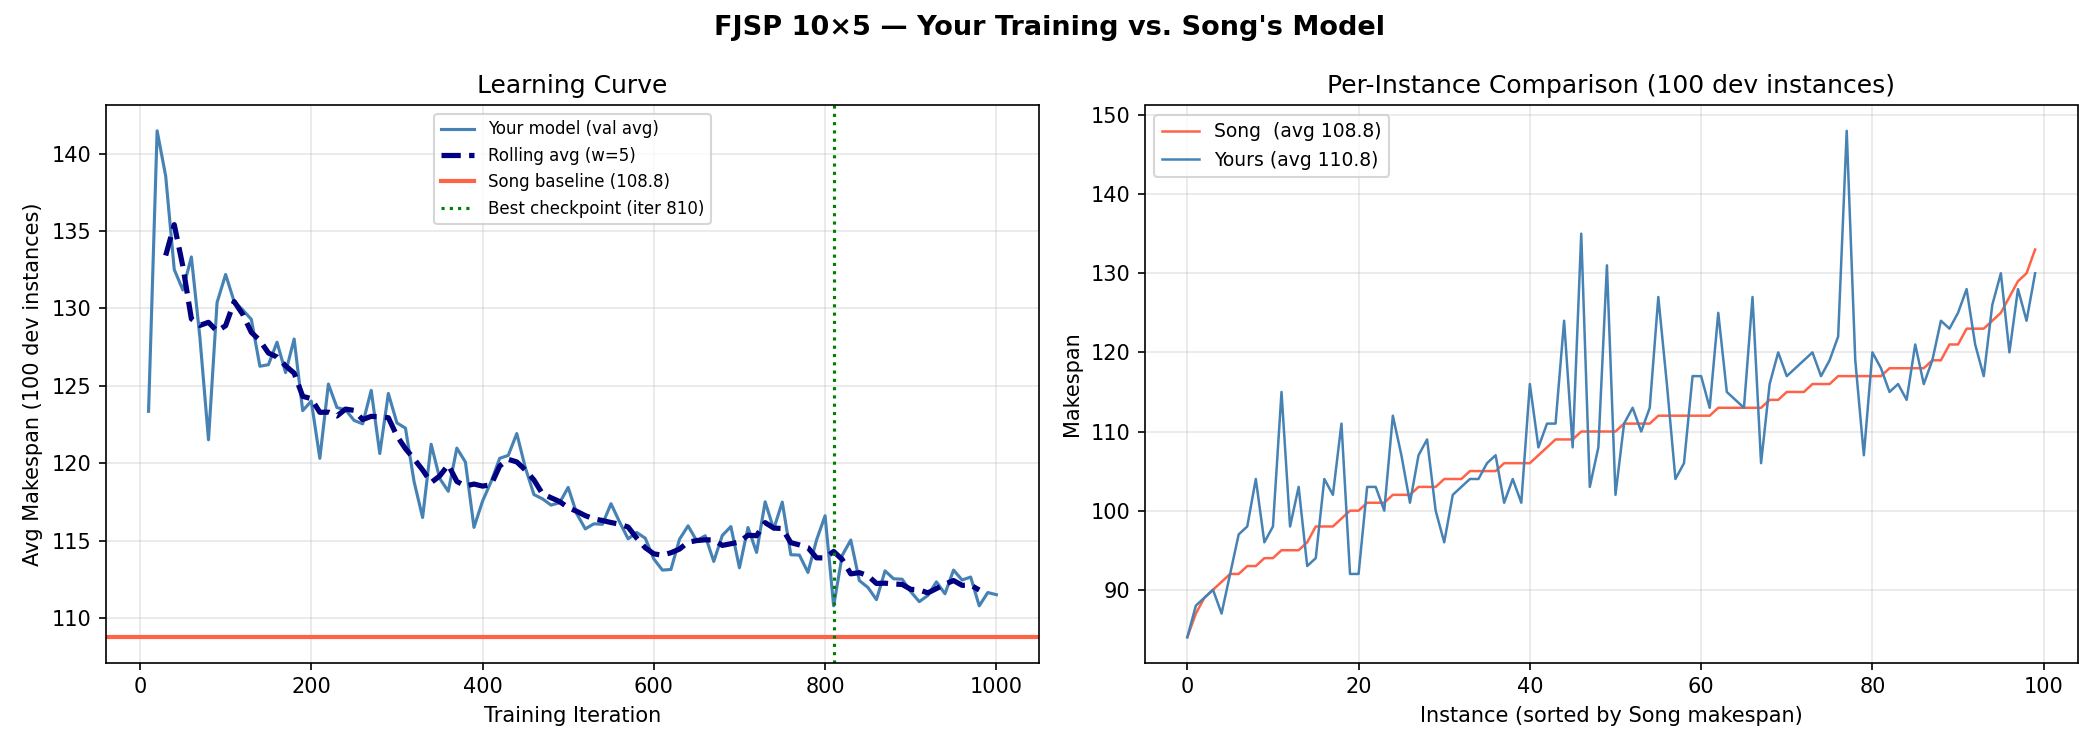
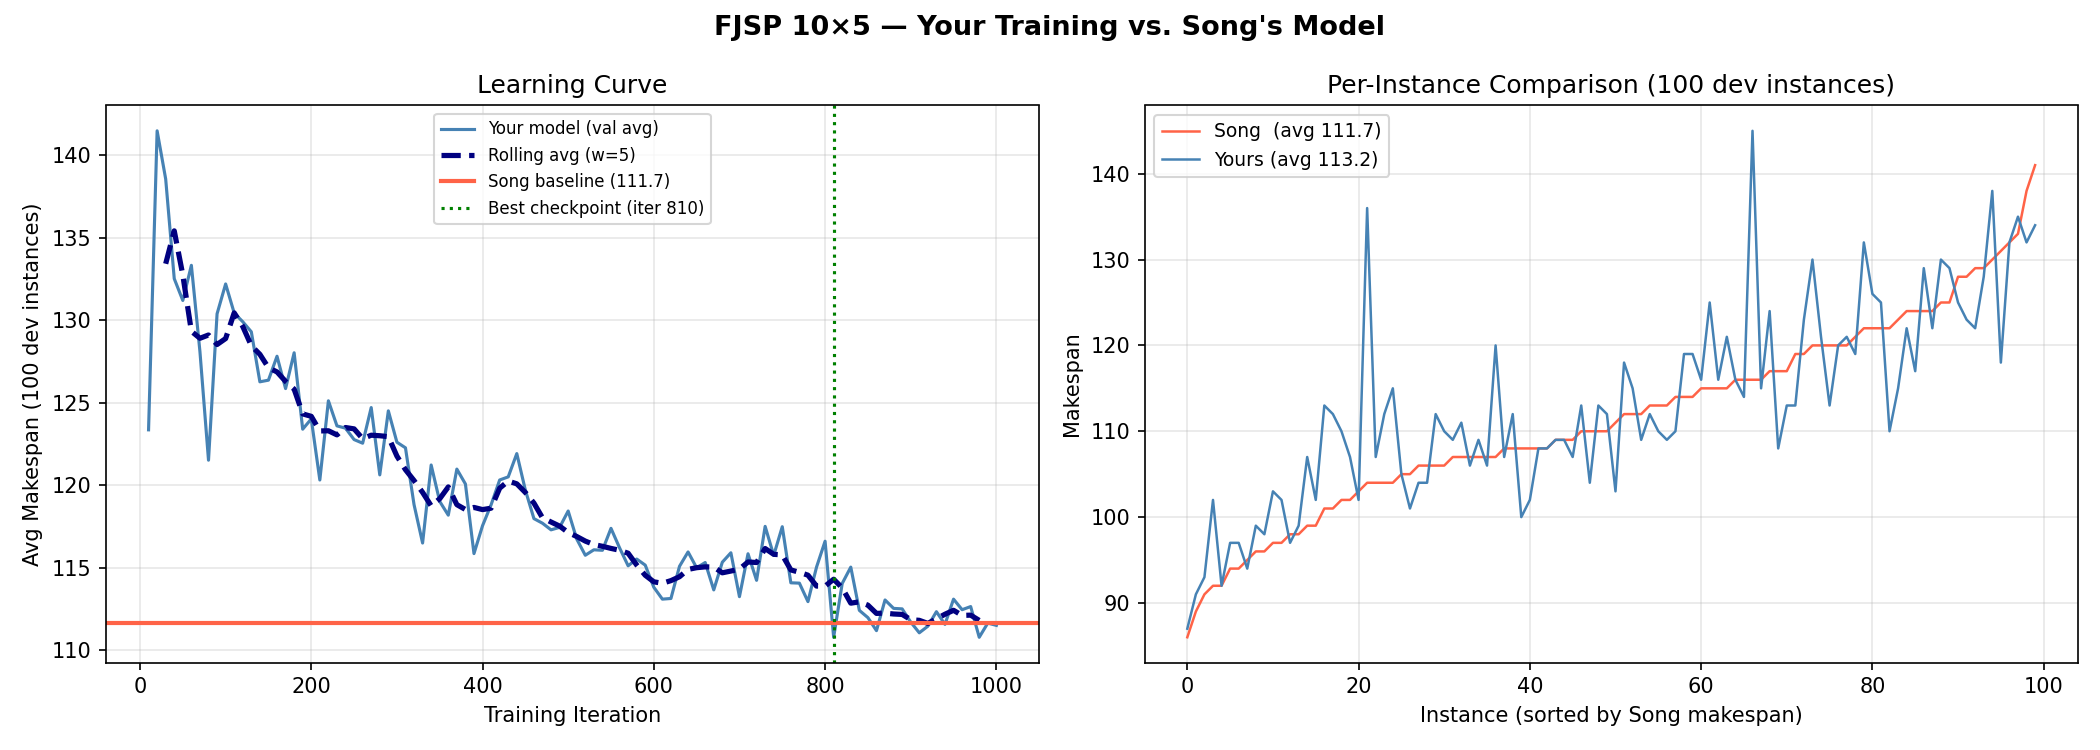
Corrected the used data set for comparison of my model with Song.

diff --git a/compare_models.py b/compare_models.py
@@ -16,7 +16,7 @@ from env.fjsp_env import FJSPEnv
 # ── Config ────────────────────────────────────────────────────────────────────
 MY_MODEL_PATH   = "./save/train_20260529_103832/save_best_10_5_810.pt"
 SONG_MODEL_PATH = "./results/save_10_5.pt"
-DATA_DIR        = "./data_dev/1005/"
+DATA_DIR        = "./data_test/1005/"
 MY_TRAINING_AVE = "./save/train_20260529_103832/training_ave_20260529_103832.xlsx"
 MY_TRAINING_100 = "./save/train_20260529_103832/training_100_20260529_103832.xlsx"
 # ─────────────────────────────────────────────────────────────────────────────